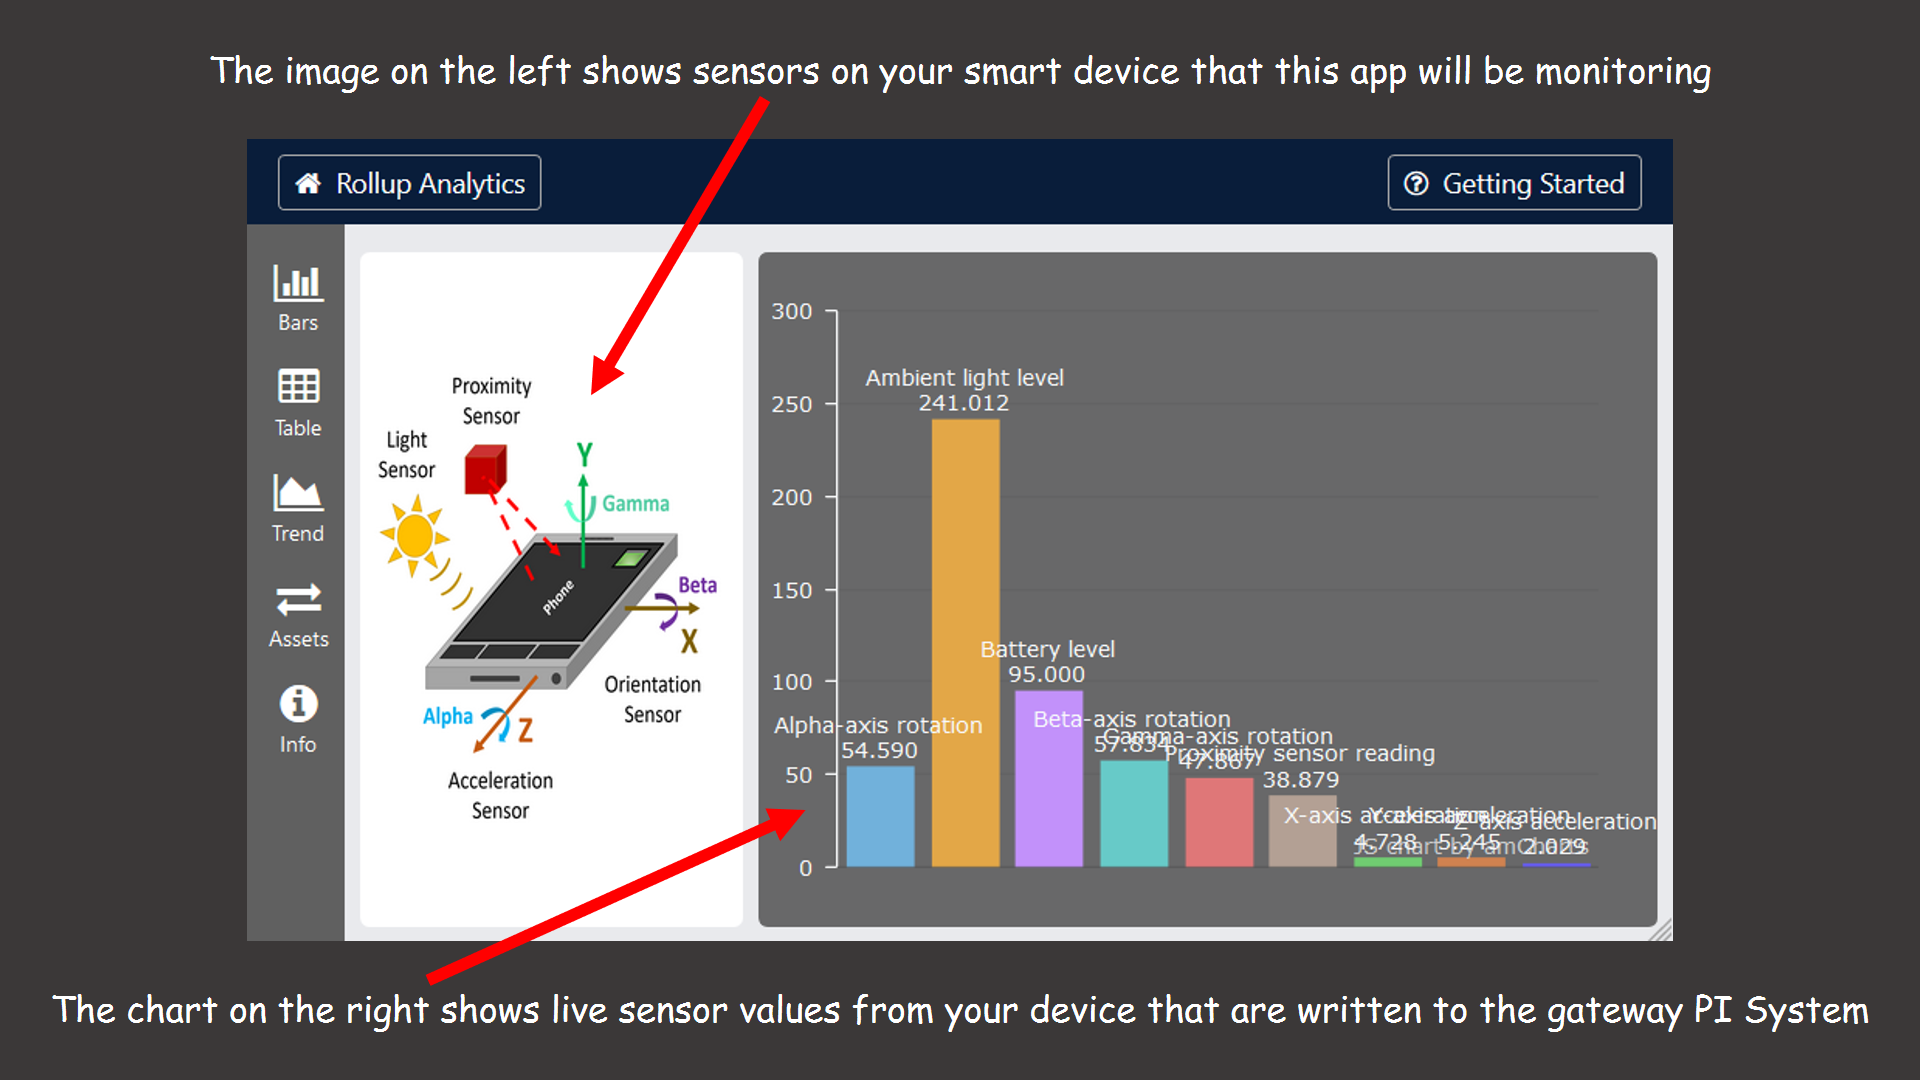
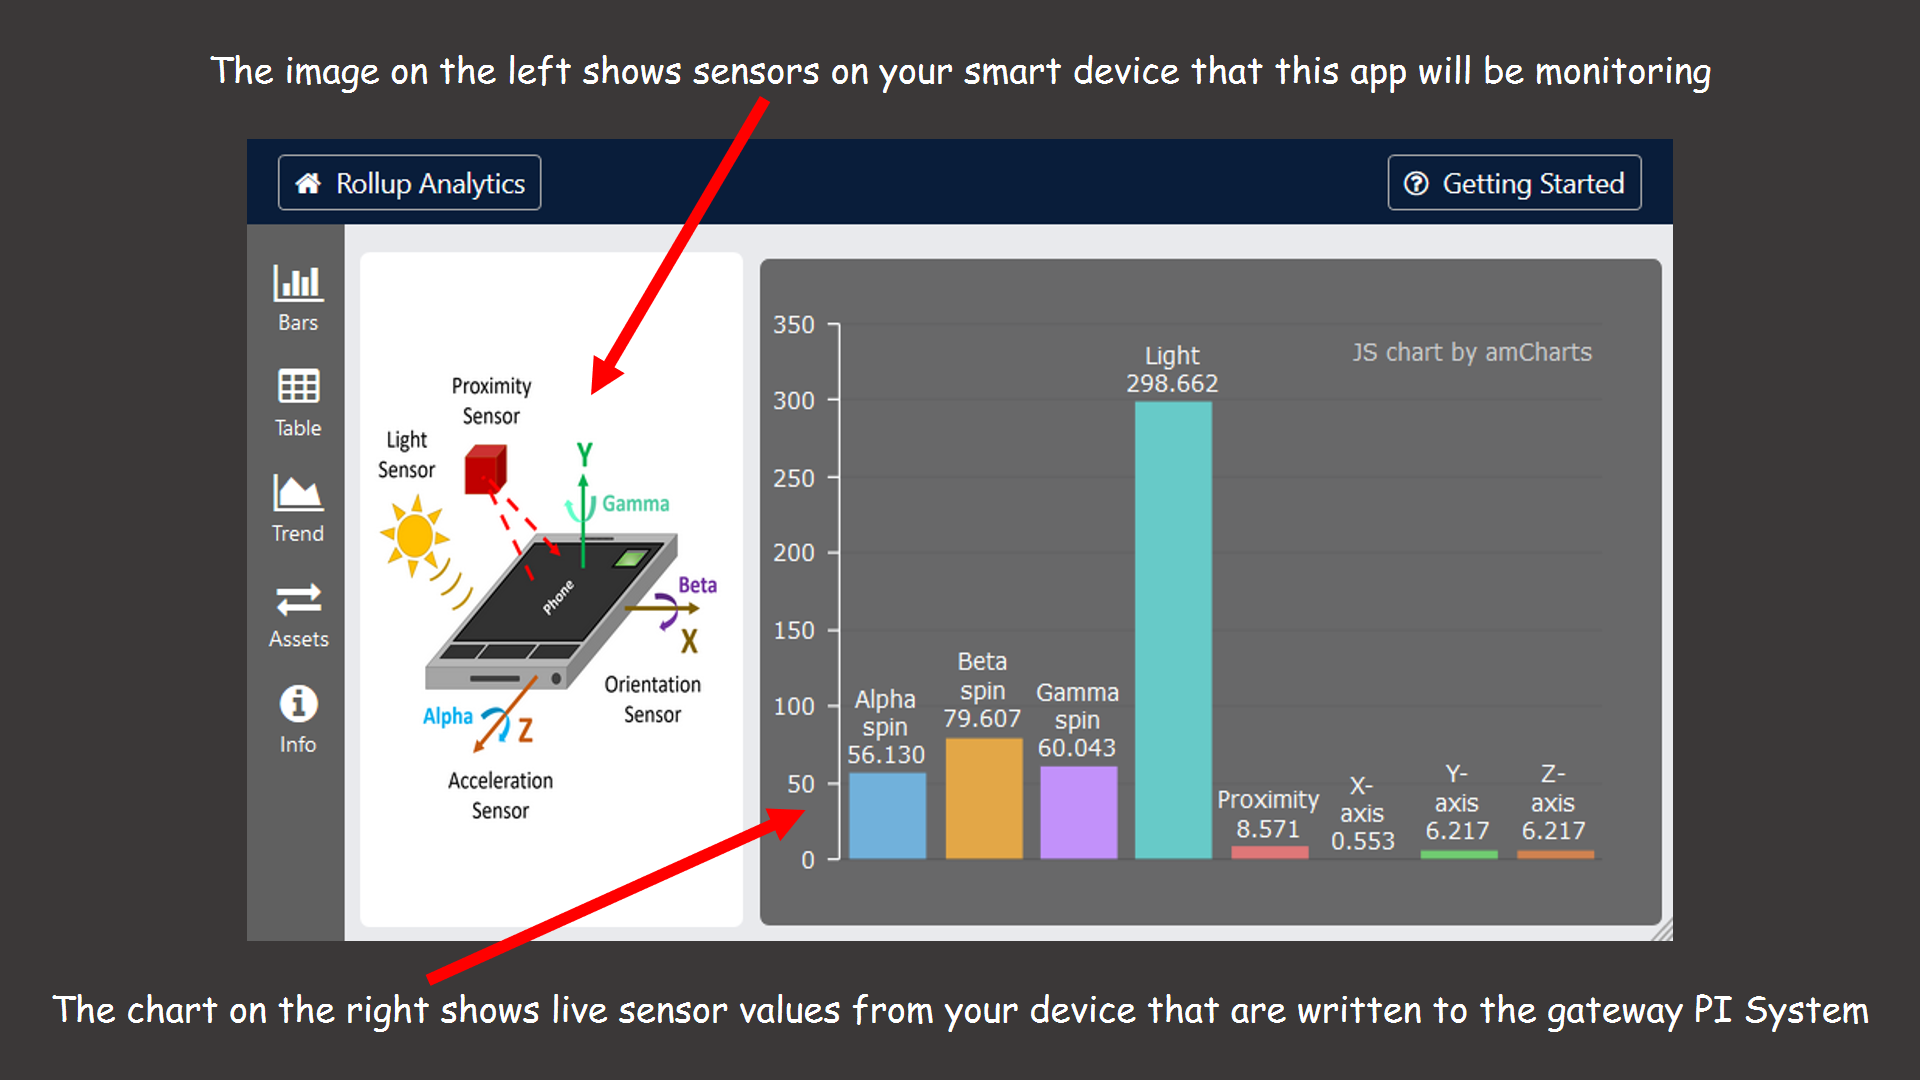
Updated getting started page along with chart and gauge controllers for easier reading

diff --git a/IOT Demo/IOT Demo/App/Views/gaugesController.js b/IOT Demo/IOT Demo/App/Views/gaugesController.js
@@ -78,14 +78,14 @@ app.controller('gaugesController', ['$scope', '$http', '$interval', '$stateParam
 			"labelsEnabled":true
         }],
         "graphs": [{
-			"balloonText": "[[category]]: [[value]]",
+			"balloonText": "[[category]]\n[[valueFormatted]]",
 			"labelText": "[[category]]\n[[valueFormatted]]",
 			"fillAlphas": 1,
 			"lineAlpha": 0,
 			"type": "column",
 			"valueField": "value",
 			"colorField":"color"
-		}],
+		}],/*
         "chartCursor": {
             "cursorAlpha": 0,
             "cursorColor": "white",
@@ -95,7 +95,7 @@ app.controller('gaugesController', ['$scope', '$http', '$interval', '$stateParam
 			"valueLineEnabled": true,
 			"valueLineBalloonEnabled":true,
 			"valueBalloonsEnabled":true
-        },
+        },*/
         "categoryField": "name",
         "categoryAxis": {
             "axisAlpha": 0,
@@ -104,7 +104,7 @@ app.controller('gaugesController', ['$scope', '$http', '$interval', '$stateParam
 			"labelsEnabled":false
         },
         "zoomOutButtonImage": "",
-        "creditsPosition": "bottom-right",
+        "creditsPosition": "top-right",
         "colors": chartColors
     };
 
@@ -136,7 +136,7 @@ app.controller('gaugesController', ['$scope', '$http', '$interval', '$stateParam
 		
 		for (var i = 0; i < mostRecentDataFromPISystem.length; i++) {
 			var dataObject = {
-				"name": mostRecentDataFromPISystem[i].Name,
+				"name": mostRecentDataFromPISystem[i].Name.replace(" ","\n").replace("-","-\n"),
 				"value": mostRecentDataFromPISystem[i].Value.Value,
 				"valueFormatted": mostRecentDataFromPISystem[i].Value.Value.toFixed(3),
 				"timestamp": mostRecentDataFromPISystem[i].Value.Timestamp,

diff --git a/IOT Demo/IOT Demo/App/Views/chartController.js b/IOT Demo/IOT Demo/App/Views/chartController.js
@@ -72,12 +72,12 @@ app.controller('chartController', ['$scope', '$http', '$interval', '$stateParams
             "fillAlpha": 0.05,
             "inside":true
         }],
-        "graphs": [],
+        "graphs": [], /*
         "chartCursor": {
             "cursorAlpha": 1,
             "cursorColor": "white",
             "categoryBalloonColor": "#202020"
-        },
+        }, */
         "legend": {
             "useGraphSettings": true,
             "labelText": "[[title]]",
@@ -105,7 +105,7 @@ app.controller('chartController', ['$scope', '$http', '$interval', '$stateParams
             "axisColor": "white"
         },
         "zoomOutButtonImage": "",
-        "creditsPosition": "bottom-right",
+        "creditsPosition": "top-right",
         "colors": chartColors
     };
 
